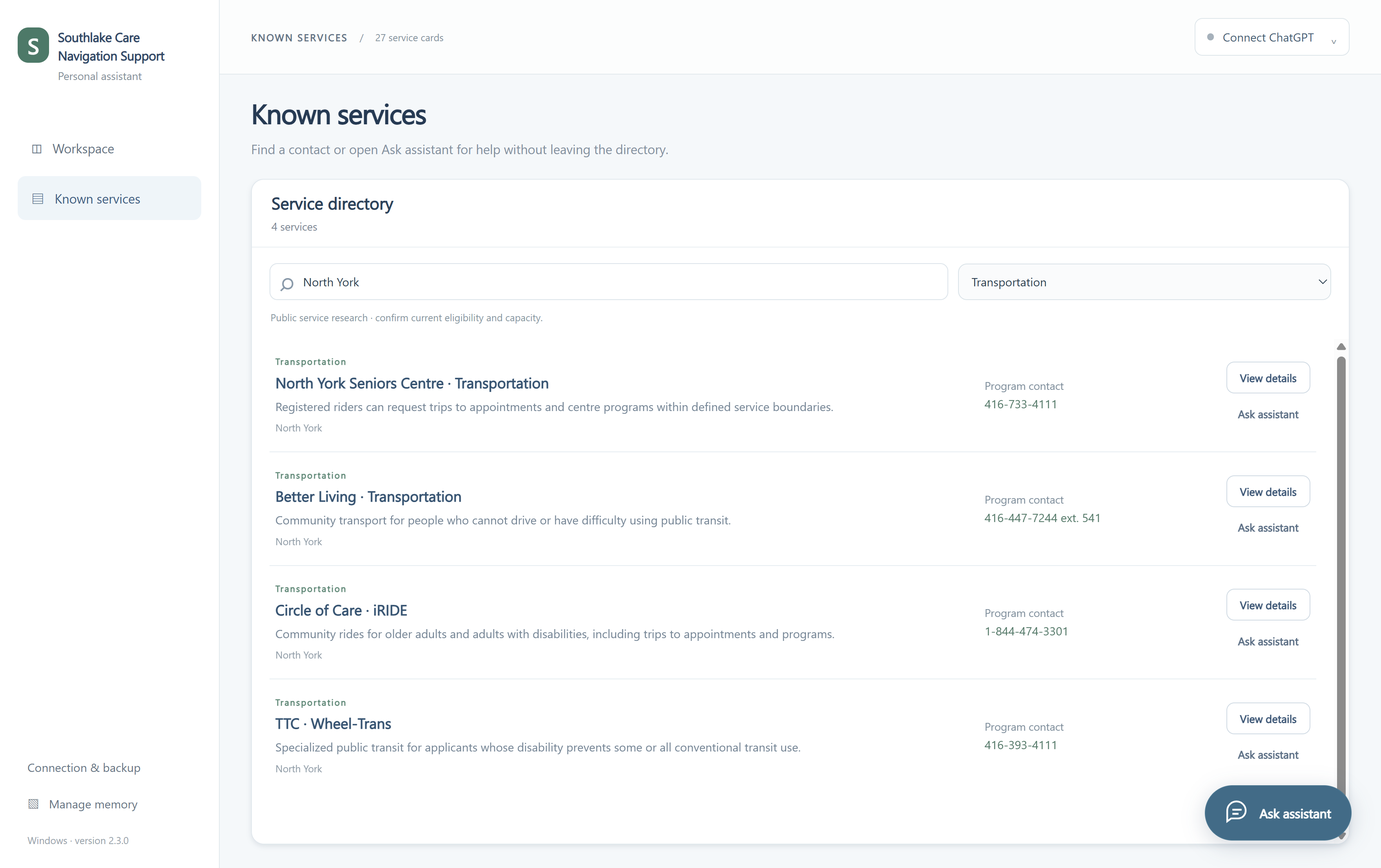
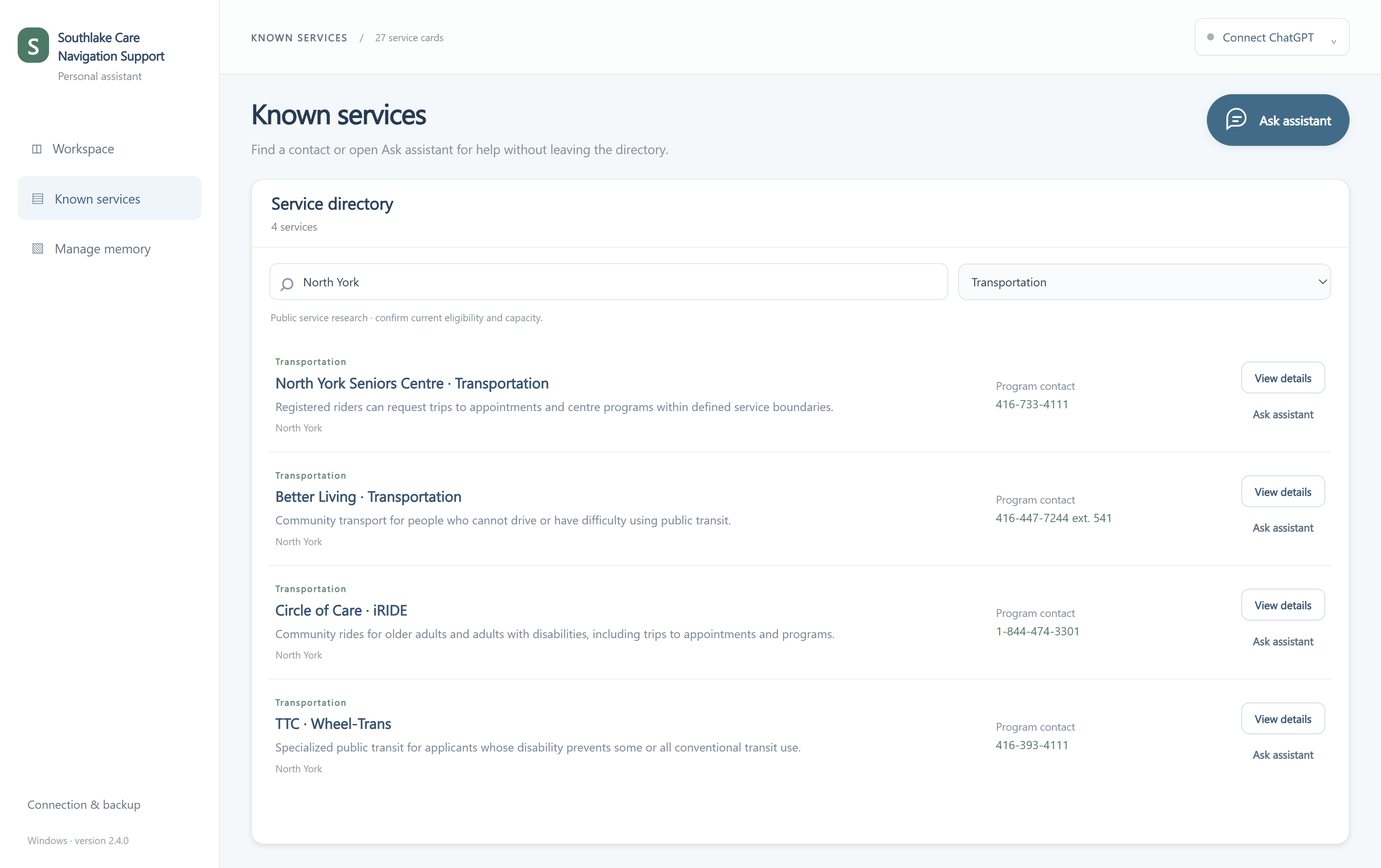
Move the assistant into the heading and simplify memory navigation

diff --git a/ui/documents.css b/ui/documents.css
@@ -13,3 +13,6 @@
 .services-view{overflow:hidden}.services-view>.library-panel{flex:1;min-height:0}.services-view .service-rows{padding-bottom:80px}.service-chat-launcher{position:fixed;right:30px;bottom:28px;z-index:19;display:flex;align-items:center;gap:10px;border:1px solid #2c7892;border-radius:32px;background:#246d8a;color:#fff;font-size:13px;font-weight:650;padding:15px 20px;box-shadow:0 5px 22px #163e5a33}.service-chat-launcher:hover{background:#1d5e78}.service-chat-launcher svg{width:25px;height:25px}.chat-header-actions{display:flex;align-items:center;gap:6px}.services-view>.chat-panel.floating-chat{position:fixed;right:26px;bottom:26px;width:min(480px,calc(100vw - 52px));height:min(650px,calc(100vh - 108px));min-height:0;flex:none;z-index:20;box-shadow:0 12px 48px #12384f40;border:1px solid #a8c5d6;border-radius:15px;background:#fff}.floating-chat .panel-heading{padding:13px 15px;min-height:78px;gap:8px;align-items:flex-start}.floating-chat .panel-heading>div:first-child{min-width:0}.floating-chat .panel-heading h2{font-size:16px}.floating-chat .panel-heading .subtle,.floating-chat .model-status{font-size:10px;overflow-wrap:anywhere}.floating-chat .chat-header-actions{justify-content:flex-end;flex-wrap:wrap;max-width:205px;flex-shrink:0;gap:3px}.floating-chat .chat-header-actions .quiet{font-size:10px;padding:6px 7px}.floating-chat .chat-header-actions .icon-button{font-size:23px;padding:1px 7px}.services-view .floating-chat .messages{min-height:65px;padding:16px}.floating-chat .message{font-size:12px}.floating-chat .message.user{margin-left:16px}.floating-chat .composer{margin-inline:12px;padding:10px}.floating-chat .composer textarea{font-size:12px;min-height:54px}.floating-chat .automatic-memory{font-size:9px}.floating-chat .composer-controls{gap:7px}.floating-chat .composer-actions{gap:6px}.floating-chat .composer-controls button{font-size:11px;padding:8px 10px}.floating-chat .composer-help{font-size:9px}.floating-chat .context-chip{margin:0 12px 9px;padding:8px 10px;font-size:10px}.floating-chat .context-chip small{font-size:9px}.floating-chat .privacy-line{font-size:8px;padding:8px 12px 10px}.services-view .floating-chat .chat-welcome{margin:8px auto}.services-view .floating-chat .chat-welcome h2{display:none}.services-view .floating-chat .chat-welcome p{margin:5px auto 14px;max-width:330px}.services-view .floating-chat .prompt-chips{gap:6px}.services-view .floating-chat .prompt{font-size:10px;padding:7px 9px}
 @media(max-width:1150px){.services-view>.library-panel{flex:1;min-height:0}.services-view>.chat-panel.floating-chat{right:18px;bottom:18px}.service-chat-launcher{right:22px;bottom:22px}}
 @media(max-height:790px){.services-view>.library-panel{flex:1;min-height:0}.services-view>.chat-panel.floating-chat{height:calc(100vh - 92px);min-height:0}.floating-chat .panel-heading{min-height:68px}.floating-chat .composer textarea{min-height:42px}}
+
+/* Keep the assistant entry point in the page heading, clear of service rows. */
+.workspace-heading{align-items:flex-start}.workspace-heading>div{min-width:0}.workspace-heading .service-chat-launcher{position:static;right:auto;bottom:auto;z-index:auto;flex:none;align-self:flex-start;box-shadow:0 2px 8px #163e5a15;padding:13px 18px;margin-top:0}.services-view .service-rows{padding-bottom:18px}

diff --git a/README.md b/README.md
@@ -2,24 +2,24 @@
 
 A Windows prototype that helps navigators turn spreadsheets and documents into searchable **memory cards**, ask questions in everyday language, and keep useful notes for future conversations.
 
-**Status:** version 2.3.0 prototype. The Windows document readers and saved-card workflow have been tested. The installer is unsigned; real recipient ChatGPT access and Southlake deployment approval remain checks before routine field use.
+**Status:** version 2.4.0 prototype. The Windows document readers and saved-card workflow have been tested. The installer is unsigned; real recipient ChatGPT access and Southlake deployment approval remain checks before routine field use.
 
-The app, Windows shortcut and installer are named **Southlake Care Navigation Support**. Version 2.3 retains the previous Windows data location and installation identity so existing cards, notes and account connections remain available after updating. Close the previous version before running the new installer.
+The app, Windows shortcut and installer are named **Southlake Care Navigation Support**. Version 2.4 retains the previous Windows data location and installation identity so existing cards, notes and account connections remain available after updating. Close the previous version before running the new installer.
 
 ## Download and start
 
-### [Download the complete handoff package](https://github.com/victor221218/southlake-care-navigation-support/releases/download/v2.3.0/Southlake-Care-Navigation-Support-Handoff-2.3.0.zip)
+### [Download the complete handoff package](https://github.com/victor221218/southlake-care-navigation-support/releases/download/v2.4.0/Southlake-Care-Navigation-Support-Handoff-2.4.0.zip)
 
 Everything needed to review the prototype in one download: the Windows installer, editable source files, user and developer guides, and the verification report.
 
 | What you need | Open this |
 | --- | --- |
-| **Install and try the app** | [Windows installer](https://github.com/victor221218/southlake-care-navigation-support/releases/download/v2.3.0/Southlake-Care-Navigation-Support-Setup-2.3.0.exe) |
-| **Quick-start guide** | [Download the quick-start guide](https://github.com/victor221218/southlake-care-navigation-support/releases/download/v2.3.0/Windows-Quick-Start.html) or [read the full guide here](START-HERE.md) |
-| **Download all deliverables** | [Complete handoff ZIP](https://github.com/victor221218/southlake-care-navigation-support/releases/download/v2.3.0/Southlake-Care-Navigation-Support-Handoff-2.3.0.zip) |
+| **Install and try the app** | [Windows installer](https://github.com/victor221218/southlake-care-navigation-support/releases/download/v2.4.0/Southlake-Care-Navigation-Support-Setup-2.4.0.exe) |
+| **Quick-start guide** | [Download the quick-start guide](https://github.com/victor221218/southlake-care-navigation-support/releases/download/v2.4.0/Windows-Quick-Start.html) or [read the full guide here](START-HERE.md) |
+| **Download all deliverables** | [Complete handoff ZIP](https://github.com/victor221218/southlake-care-navigation-support/releases/download/v2.4.0/Southlake-Care-Navigation-Support-Handoff-2.4.0.zip) |
 | **Read or edit the code** | Browse the folders above; [start with the source map below](#source-code-map) |
 | **Build or maintain the app** | [Windows development instructions](WINDOWS-DEVELOPMENT.md) |
-| **Review test evidence and remaining checks** | [Release page and verification files](https://github.com/victor221218/southlake-care-navigation-support/releases/tag/v2.3.0) |
+| **Review test evidence and remaining checks** | [Release page and verification files](https://github.com/victor221218/southlake-care-navigation-support/releases/tag/v2.4.0) |
 
 The public release can be downloaded without a GitHub account. Opening the installer is different from downloading source code: Use the installer to run the app or the source files for development.
 
@@ -39,21 +39,23 @@ The app opens in **Workspace**, with a full-width chat and document upload besid
 
 Choose **Known services** to browse the 27 researched pathways as full-width horizontal rows. Category filtering and search appear above the directory; the assistant opens in a floating panel on the right. Open View details for contact details, access requirements, source links and research dates, or choose Ask assistant beneath View details to open the floating chat with that provider selected. A named person appears only when listed in the public source. Confirm eligibility, boundaries, costs and current capacity before referring.
 
-**Manage memory**, at the bottom of the sidebar, contains saved messages, personal notes, imported document cards and feedback attached to service/document cards. Search or filter the list, edit a message or note, or delete an item. Public starting service cards remain in Known services when personal feedback is deleted. Imported source text stays intact; use Add correction to attach a correction or import a revised source. Completed memory edits/deletions clear the assistant's earlier context so subsequent answers retrieve the current records.
+**Manage memory**, directly beneath Known services in the sidebar, contains saved messages, personal notes, imported document cards and feedback attached to service/document cards. Search or filter the list, edit a message or note, or delete an item. Public starting service cards remain in Known services when personal feedback is deleted. Imported source text stays intact; use Add correction to attach a correction or import a revised source. Completed memory edits/deletions clear the assistant's earlier context so subsequent answers retrieve the current records.
 
-![Known services fills the page, with a floating chat button](docs/known-services.png)
+![Known services with Ask assistant in the upper-right heading](docs/known-services.png)
 
-Choose the right-side chat button or Ask assistant to open a nonblocking side panel. Minimize it with × or Escape to browse the whole directory again. Open Workspace continues the same conversation in the full chat. Drafts, the selected service and saved memory are retained.
+Choose Ask assistant in the upper-right of the Known services heading, or beneath View details on a service row, to open the side panel. Minimize it with × or Escape to browse the whole directory again. Open Workspace continues the same conversation in the full chat. Drafts, the selected service and saved memory are retained.
 
 ![Floating assistant with the selected service](docs/floating-assistant.png)
 
 ![Review, edit and delete saved memory](docs/manage-memory.png)
 
+The Ask assistant entry point is in the upper-right of the Known services heading, outside the service rows. Manage memory is directly beneath Known services in the sidebar.
+
 ## The workflow
 
 | Step | What happens |
 | --- | --- |
-| **1. Install** | Open `Southlake-Care-Navigation-Support-Setup-2.3.0.exe`, choose Install, then Finish. Later, open Southlake Care Navigation Support from the desktop or Start menu. |
+| **1. Install** | Open `Southlake-Care-Navigation-Support-Setup-2.4.0.exe`, choose Install, then Finish. Later, open Southlake Care Navigation Support from the desktop or Start menu. |
 | **2. Connect** | Choose Continue with ChatGPT. Sign in on OpenAI's page using your own ChatGPT account and review the requested permissions. Return to the app. |
 | **3. Add a document** | Choose Add a document beside Speak at the bottom of the chat, select a file, review its preview and warnings, then Save cards. |
 | **4. Ask a question** | Type a question, or Speak, Stop listening, review the transcript, and Send. Answers are text, with clickable source cards where relevant. |
@@ -107,12 +109,12 @@ Official references: [Sign in with ChatGPT](https://developers.openai.com/siwc/q
 
 ## Files in the complete handoff ZIP
 
-Extract the ZIP first, then open **START-HERE.html** inside `Southlake-Care-Navigation-Support-Windows-2.3`.
+Extract the ZIP first, then open **START-HERE.html** inside `Southlake-Care-Navigation-Support-Windows-2.4`.
 
 | File or folder | What it is for |
 | --- | --- |
 | `START-HERE.html` | Links to the installer, guides and source overview within the extracted package |
-| `Southlake-Care-Navigation-Support-Setup-2.3.0.exe` | The normal per-user Windows installer; includes the app runtime, document readers and English speech model |
+| `Southlake-Care-Navigation-Support-Setup-2.4.0.exe` | The normal per-user Windows installer; includes the app runtime, document readers and English speech model |
 | `source/` | The original editable source files, tests, dependency versions, build scripts and required source assets |
 | `documentation/Windows-Quick-Start.html` | Quick-start instructions |
 | `documentation/Full-Guide.md` | Detailed usage, file limits, memory and backup instructions |
@@ -146,7 +148,7 @@ These files are for developers. End users do not need to open or run them.
 | `WINDOWS-DEVELOPMENT.md` | Developer prerequisites, runtime configuration, build steps and native test instructions |
 | `START-HERE.md`, `SHARING.md`, `RELEASE-NOTES.md` | User, administrator and release documentation |
 
-The active version 2.3 build uses the **document** entry points listed above. Earlier service-navigation modules and Mac packaging experiments remain as historical source. They are identified in BUILDING.md and are not the active Windows workflow.
+The active version 2.4 build uses the **document** entry points listed above. Earlier service-navigation modules and Mac packaging experiments remain as historical source. They are identified in BUILDING.md and are not the active Windows workflow.
 
 ## Build and run from source
 

diff --git a/WINDOWS-DEVELOPMENT.md b/WINDOWS-DEVELOPMENT.md
@@ -1,4 +1,4 @@
-# Windows development — version 2.3.0
+# Windows development — version 2.4.0
 
 These steps cover development and installer builds. End users use the finished Windows installer and need none of these tools.
 
@@ -41,7 +41,7 @@ python scripts/prepare-windows.py
 & 'C:/build-tools/Inno Setup/ISCC.exe' scripts/windows-installer.iss
 ```
 
-Adjust only the compiler path to its approved installation. The result is `release/setup/Southlake-Care-Navigation-Support-Setup-2.3.0.exe`. Version and app identity are defined in package.json and scripts/windows-installer.iss; keep them consistent. It installs per Windows user and retains separate app-data files on upgrade/uninstall.
+Adjust only the compiler path to its approved installation. The result is `release/setup/Southlake-Care-Navigation-Support-Setup-2.4.0.exe`. Version and app identity are defined in package.json and scripts/windows-installer.iss; keep them consistent. It installs per Windows user and retains separate app-data files on upgrade/uninstall.
 
 The packager collects dependency license notices. Keep the bundled Vosk model source manifest, Apache license and notices with the assets. The OpenAI demonstration DevKit is not bundled; this app implements the published protocol independently.
 
@@ -52,7 +52,7 @@ After build/package and runtime configuration:
 ```powershell
 node scripts/prepare-document-smoke.mjs
 python scripts/prepare-windows.py --document-smoke
-& '.runtime/document-smoke-2.3.0/Southlake Hive Document Test.exe'
+& '.runtime/document-smoke-2.4.0/Southlake Hive Document Test.exe'
 ```
 
 Run this from a normal Windows desktop session. It uses its own isolated test profile and fictional files, exercises the shipping main/renderer/IPC, checks all three bundled Office/PDF readers, and relaunches to verify pending notes are saved before closing. It writes `document-smoke-result.json` in its test directory. It does not sign in, perform live AI requests, read existing user data or open the microphone. The test preload/bootstrap and fixtures are **not** part of the shipping installer.
@@ -60,7 +60,7 @@ Run this from a normal Windows desktop session. It uses its own isolated test pr
 For an extraction-only installer check, use a fresh test directory:
 
 ```powershell
-& 'release/setup/Southlake-Care-Navigation-Support-Setup-2.3.0.exe' /PORTABLE=1 /DIR="C:/build-tests/hive-2.3.0" /VERYSILENT /SUPPRESSMSGBOXES /NORESTART
+& 'release/setup/Southlake-Care-Navigation-Support-Setup-2.4.0.exe' /PORTABLE=1 /DIR="C:/build-tests/hive-2.4.0" /VERYSILENT /SUPPRESSMSGBOXES /NORESTART
 ```
 
 This copies application files without normal shortcuts/uninstall registration. It does not prove the UI, account connection or AI work. Do not disable Chromium sandboxing or bypass OS protection to make a build launch.
@@ -71,14 +71,16 @@ This copies application files without normal shortcuts/uninstall registration. I
 
 Verify the intended app/account can complete real ChatGPT requests. Do not assume Plus/Pro subscription status alone admits a private app. Confirm the intended document handling, account separation, backup/restore and microphone behavior; arrange approved distribution and publisher signing. The current database/backup encryption limits and data flow are documented in START-HERE.md. Keep patient identifiers out of pilot tests.
 
-Legacy service-navigation and Mac development notes are retained in BUILDING.md; they do not define the version 2.3 Windows document workflow.
+Legacy service-navigation and Mac development notes are retained in BUILDING.md; they do not define the version 2.4 Windows document workflow.
 
 ## Service directory and app identity
 
-`src/documents/services.mjs` builds the 27 public cards from the earlier researched catalog, with source dates and targeted contact updates. Initialization uses stable source keys, avoids duplicate imports, and retains notes when the public snapshot is updated. `src/app-identity.mjs` preserves the legacy Windows data folder independently of the displayed product name. Production runtime files stage into `release/windows-app-2.3.0`. Keep the Inno Setup application ID unchanged when publishing upgrades.
+`src/documents/services.mjs` builds the 27 public cards from the earlier researched catalog, with source dates and targeted contact updates. Initialization uses stable source keys, avoids duplicate imports, and retains notes when the public snapshot is updated. `src/app-identity.mjs` preserves the legacy Windows data folder independently of the displayed product name. Production runtime files stage into `release/windows-app-2.4.0`. Keep the Inno Setup application ID unchanged when publishing upgrades.
 
-## Version 2.3 interface checks
+## Version 2.4 interface checks
 
 The native test verifies Workspace as the default full-width chat, composer visibility in a compact window, no Keep this message checkbox, full-page service rows with a floating assistant, automatic saving, a separate memory library, feedback/message editing, confirmed and cancelled deletion, original-source retention, import and reopening. Its file picker is an isolated fixture returning a fictional CSV; the shipping button/IPC/importer run unchanged. All test profiles and UI fixtures are excluded from the production installer.
 
-The version 2.3 native checks also verify the full-page directory with closed chat, right-side launcher, overlay bounds on compact windows, retained directory width/filters/drafts, Escape focus restoration, Ask assistant below View details, and continuity when expanding to Workspace. The same chat DOM, history, selected card and speech engine are reused; no second chat session or additional native window is created.
+The version 2.4 native checks also verify the full-page directory with closed chat, header launcher, overlay bounds on compact windows, retained directory width/filters/drafts, Escape focus restoration, Ask assistant below View details, and continuity when expanding to Workspace. The same chat DOM, history, selected card and speech engine are reused; no second chat session or additional native window is created.
+
+The version 2.4 native layout checks verify that Ask assistant remains inside the Known services heading without overlapping the directory at normal and compact sizes, and that Manage memory is the next sidebar item beneath Known services.

diff --git a/START-HERE.md b/START-HERE.md
@@ -1,18 +1,18 @@
 # Southlake Care Navigation Support — Windows 2.1 prototype
 
-Open **Southlake-Care-Navigation-Support-Setup-2.3.0.exe**, choose **Install**, then **Finish**. Open **Southlake Care Navigation Support** from your desktop or Start menu afterwards. No ZIP extraction, coding tools, terminal commands or plugin setup are needed.
+Open **Southlake-Care-Navigation-Support-Setup-2.4.0.exe**, choose **Install**, then **Finish**. Open **Southlake Care Navigation Support** from your desktop or Start menu afterwards. No ZIP extraction, coding tools, terminal commands or plugin setup are needed.
 
 This installer supports Windows 10 version 2004 or later and Windows 11 on 64-bit Intel/AMD computers. It installs for the current Windows user. The pilot is unsigned. If Windows or your organization blocks it, ask your administrator to approve distribution. A signed publisher release is required for a routine Southlake rollout.
 
 ## Start in Workspace
 
-Workspace is the default page and is a full-width chat. Add a document remains beside Speak. Messages save automatically; use Manage memory at the bottom of the sidebar to review, change or delete what has been saved.
+Workspace is the default page and is a full-width chat. Add a document remains beside Speak. Messages save automatically; use Manage memory directly beneath Known services in the sidebar to review, change or delete what has been saved.
 
 ## Known services are ready to browse
 
 Open **Known services** on the left for 27 researched services in full-width horizontal rows. Category and search controls are at the top; the directory fills the page. The assistant opens only when requested, as a floating panel on the right. Open View details or choose Ask assistant on a row. A named person appears only when the source lists one. Otherwise use the listed phone/email. Confirm current eligibility, service area, fees and capacity with the provider. No past outcomes or success rates are preloaded.
 
-Choose **Ask assistant** beneath View details, or **Ask about this card** in its details, to open the floating assistant with that service selected. Its messages save on that service card. Use the right-side chat button to reopen chat, × or Escape to minimize, or **Open Workspace** for the full chat. Your draft and selected service remain available. Open **Manage memory** to see imported document cards, saved messages and service feedback.
+Choose **Ask assistant** beneath View details, or **Ask about this card** in its details, to open the floating assistant with that service selected. Its messages save on that service card. Use Ask assistant in the upper-right of the Known services heading to reopen chat, × or Escape to minimize, or **Open Workspace** for the full chat. Your draft and selected service remain available. Open **Manage memory** to see imported document cards, saved messages and service feedback.
 
 ## Start with three steps
 
@@ -70,8 +70,8 @@ Official connection reference: https://developers.openai.com/cookbook/articles/s
 
 ## Updating from version 2.0
 
-Close Southlake Hive before running the version 2.3 installer. Open **Southlake Care Navigation Support** afterwards. Existing documents, notes and saved connections stay in the same Windows app-data folder. The default page is now the full chat, and saved cards/notes are managed separately in Manage memory. The public directory is retained. Updates are installed using the new installer; there is no automatic updater. Back up your memory before changing computers.
+Close Southlake Hive before running the version 2.4 installer. Open **Southlake Care Navigation Support** afterwards. Existing documents, notes and saved connections stay in the same Windows app-data folder. The default page is now the full chat, and saved cards/notes are managed separately in Manage memory. The public directory is retained. Updates are installed using the new installer; there is no automatic updater. Back up your memory before changing computers.
 
 ## Full-page services and floating chat
 
-Known services uses the whole page. No chat is shown below the directory. The floating chat button on the right opens the assistant, and Ask assistant stays underneath View details on every service row. The panel can be minimized without clearing a draft or changing the directory filters. Open Workspace continues the same conversation in the full chat.
+Known services uses the whole page. Ask assistant sits in the upper-right of its heading, clear of the service rows. No chat is shown below the directory. The Ask assistant button in the upper-right of the Known services heading opens the assistant, and Ask assistant stays underneath View details on every service row. The panel can be minimized without clearing a draft or changing the directory filters. Open Workspace continues the same conversation in the full chat.

diff --git a/SHARING.md b/SHARING.md
@@ -1,6 +1,6 @@
 # Share the Windows app
 
-Share the [GitHub download page](https://github.com/victor221218/southlake-care-navigation-support/releases/tag/v2.3.0). Users choose **Southlake-Care-Navigation-Support-Setup-2.3.0.exe** and open it; there is no ZIP to extract to install the app. The same page offers the quick-start guide and a complete source/handoff ZIP for maintainers.
+Share the [GitHub download page](https://github.com/victor221218/southlake-care-navigation-support/releases/tag/v2.4.0). Users choose **Southlake-Care-Navigation-Support-Setup-2.4.0.exe** and open it; there is no ZIP to extract to install the app. The same page offers the quick-start guide and a complete source/handoff ZIP for maintainers.
 
 A C: drive link works on this computer only. To send a download link, upload the installer and share that actual file page. The public GitHub release is verified separately after upload.
 
@@ -16,7 +16,7 @@ The app independently implements the published Sign in with ChatGPT protocol. Co
 
 The same clean installer goes to each recipient. It contains the app, bundled document readers, voice model, 27 researched service pathways and an optional fictional sample, not the sender's account or imported documents. Do not send the app-data folder. To change computers, deliberately export a private memory backup, then restore it into the correct active account on the new computer. Backups contain private document text and notes, not original files or credentials.
 
-Version 1.5.0's service-navigation installer remains separately available. Version 2.3 adds the full Workspace chat and a separate editable memory library to the personal document workflow. It preserves previous on-disk data without converting it or introducing shared-team memory.
+Version 1.5.0's service-navigation installer remains separately available. Version 2.4 retains the full Workspace chat and separate editable memory library. It preserves previous on-disk data without converting it or introducing shared-team memory.
 
 ## Developer handoff
 
@@ -34,12 +34,12 @@ python scripts/prepare-windows.py
 
 The document tests exercise the built background reader, so build first. The Windows staging script expects the matching official Electron runtime manifest/cache; a new build machine must supply that runtime and Inno Setup. Third-party notices are in app.asar. The installer uses the same app ID and per-user directory, preserving user data on upgrade and uninstall. Never distribute developer QA stages, test profiles or credentials.
 
-## Version 2.3 upgrade
+## Version 2.4 upgrade
 
 The Windows application and shortcuts now use Southlake Care Navigation Support. The installer keeps the existing installation ID and the Windows data location `%APPDATA%\Southlake Hive` to retain saved accounts, documents and notes. Close the previous app before updating. Public starting cards are initialized separately in each account and do not transfer anyone’s comments to another account. No automatic updater is included.
 
 ## Default pages and memory controls
 
-Workspace opens first as a full-width chat. Known services fills the page, with an optional floating assistant on the right. Manage memory is at the bottom of the sidebar and supports searching, editing and deleting personal messages/notes/feedback; document corrections remain attached to their source cards. Messages save automatically. These remain individual records, with no shared team feedback store.
+Workspace opens first as a full-width chat. Known services fills the page, with an optional floating assistant on the right. Manage memory is directly beneath Known services in the sidebar and supports searching, editing and deleting personal messages/notes/feedback; document corrections remain attached to their source cards. Messages save automatically. These remain individual records, with no shared team feedback store.
 
-Version 2.3 makes Known services a full-page directory with a floating chat button. Ask assistant remains under View details; it selects the provider and opens the side panel. Minimize/Escape retains the draft and directory filters; Open Workspace continues the same conversation.
+Version 2.4 places Ask assistant in the upper-right of the Known services heading, clear of service rows. Manage memory is directly beneath Known services in the sidebar. Ask assistant also remains under View details; it selects the provider and opens the side panel. Minimize/Escape retains the draft and directory filters; Open Workspace continues the same conversation.

diff --git a/RELEASE-NOTES.md b/RELEASE-NOTES.md
@@ -1,17 +1,15 @@
-# Southlake Care Navigation Support 2.3.0 — full-page services and floating assistant
+# Southlake Care Navigation Support 2.4.0 — clearer navigation
 
-- Known services fills the page, including the existing horizontal service rows, contact information, category filter and search. The chat beneath the directory has been removed.
-- A floating Ask assistant button on the right opens a side panel without shrinking or moving the directory.
-- Ask assistant stays underneath View details on each row. It opens the panel with that provider selected so feedback stays on the correct service card.
-- Minimize with × or Escape and reopen from the floating button. Drafts, directory filters, conversation and selected service are retained. Escape restores focus to the originating control.
-- Open Workspace continues the same conversation in the full chat. Workspace remains the default page; automatic message saving and Manage memory remain available.
+- Ask assistant now sits in the upper-right of the Known services heading, clear of the service rows.
+- Manage memory is directly beneath Known services in the sidebar. Connection & backup remains at the bottom.
+- Ask assistant beneath each View details button still opens the floating chat with that service selected. Minimize, Escape, Open Workspace, drafts, automatic memory and the memory manager retain their existing behavior.
 
 ## Install or update
 
-Close the current app, then run **Southlake-Care-Navigation-Support-Setup-2.3.0.exe** and complete installation. Existing accounts, documents and memory use the same Windows data location. No automatic updater is included.
+Close the current app, then run **Southlake-Care-Navigation-Support-Setup-2.4.0.exe** and complete installation. Existing accounts, documents and memory use the same Windows data location. Updates require the new installer; no automatic updater is included.
 
 ## Validation and scope
 
-81 automated checks and native Windows interface, memory and document-reader checks are recorded in Verification.json. Floating chat checks cover full-page directory use, launcher/minimize, compact layout, selected service, retained drafts/filters, Escape/focus and Open Workspace continuity.
+81 automated checks and the native Windows layout, floating-chat, document and memory checks are recorded in Verification.json. Header/button placement is checked at normal and compact window sizes, including the button staying clear of service rows.
 
 The installer remains an unsigned prototype. Live recipient ChatGPT eligibility/inference, microphone capture on that computer, publisher signing and Southlake deployment approval remain separate checks. No private records or credentials are included in the download.
